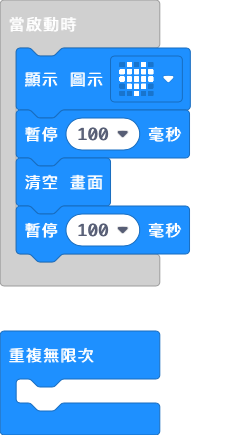
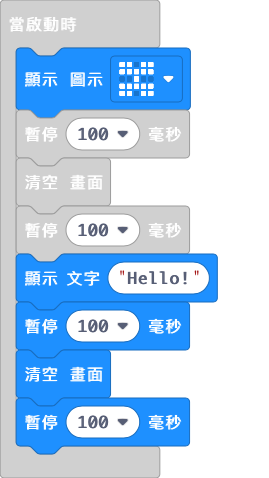
Update main.blocks, main.ts

diff --git a/main.ts b/main.ts
@@ -1,4 +1,8 @@
-basic.showIcon(IconNames.Heart)
+basic.showIcon(IconNames.Butterfly)
+basic.pause(100)
+basic.clearScreen()
+basic.pause(100)
+basic.showString("Hello!")
 basic.pause(100)
 basic.clearScreen()
 basic.pause(100)
